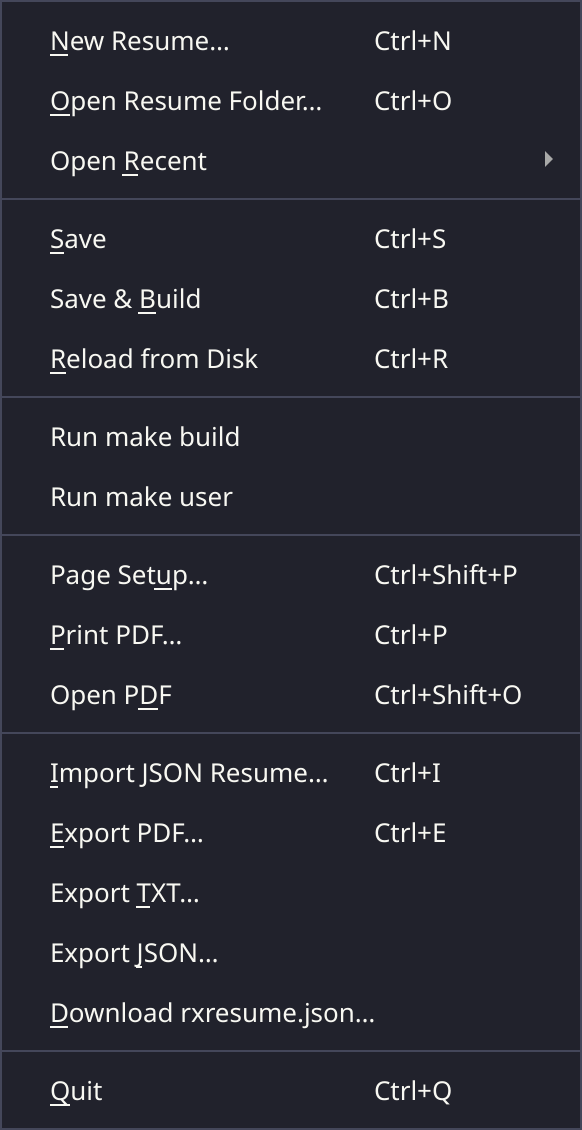
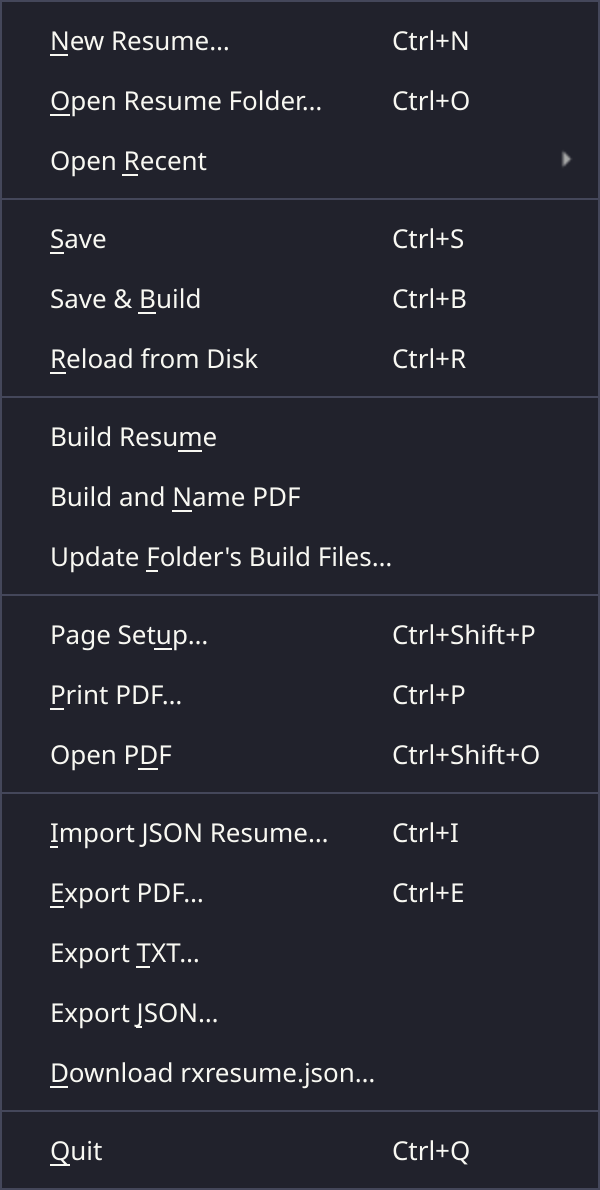
Retake the File menu screenshot, add one of the themes, and rebuild the resume

Changed region(s): [[0.0, 0.0, 0.9897, 0.9912], [0.6186, 0.4956, 0.8969, 0.7743], [0.6495, 0.0, 0.7732, 0.0929]]

diff --git a/docs/screenshots/retake.py b/docs/screenshots/retake.py
@@ -1,0 +1,77 @@
+#!/usr/bin/env python3
+"""Retakes the screenshots that come straight from the editor's widgets,
+without a display:
+
+    python3 docs/screenshots/retake.py
+
+- editor-file-menu.png: the File menu.
+- editor-themes.png: the window in each color theme.
+
+The others show a window as arranged by hand, and are taken by hand. Run
+this from a checkout with the editor's packages installed
+(requirements.txt); it opens this checkout's resume and changes no files.
+"""
+import os
+import sys
+import tempfile
+from pathlib import Path
+
+HERE = Path(__file__).resolve().parent
+ROOT = HERE.parent.parent
+settings = tempfile.TemporaryDirectory()  # so the theme chosen here isn't remembered
+os.environ.update(QT_QPA_PLATFORM="offscreen", QTWEBENGINE_CHROMIUM_FLAGS="--disable-gpu",
+                  XDG_CONFIG_HOME=settings.name, RESUME_WORKSHOP_ROOT=str(ROOT))
+sys.dont_write_bytecode = True
+sys.path.insert(0, str(ROOT / "editor"))
+sys.argv = [sys.argv[0]]
+
+import main  # noqa: E402
+import themes  # noqa: E402
+from PySide6.QtCore import QEventLoop, QRect, Qt, QTimer  # noqa: E402
+from PySide6.QtGui import QColor, QPainter, QPixmap  # noqa: E402
+
+COLUMNS, WIDTH, HEIGHT = 3, 750, 500  # the themes picture: each window at half size
+
+
+def pause(ms):
+    loop = QEventLoop()
+    QTimer.singleShot(ms, loop.quit)
+    loop.exec()
+
+
+def shots():
+    main.application()
+    window = main.Workshop(main.startup_resume())
+    window.resize(1500, 1000)
+    window.show()
+    pause(4000)  # the PDF viewer loads, and the live preview builds
+
+    menu = next(action.menu() for action in window.menuBar().actions() if action.text() == "&File")
+    menu.popup(window.mapToGlobal(window.rect().topLeft()))
+    pause(300)
+    # Drawn at twice its size, as on a high-resolution screen.
+    shot = QPixmap(menu.size() * 2)
+    shot.setDevicePixelRatio(2)
+    menu.render(shot)
+    shot.save(str(HERE / "editor-file-menu.png"))
+    menu.hide()
+
+    names = list(themes.THEMES)
+    rows = -(-len(names) // COLUMNS)
+    sheet = QPixmap(COLUMNS * WIDTH, rows * HEIGHT)
+    sheet.fill(QColor("#000000"))
+    painter = QPainter(sheet)
+    painter.setRenderHint(QPainter.RenderHint.SmoothPixmapTransform)
+    for index, name in enumerate(names):
+        window.set_theme(name)
+        pause(2500)
+        shot = window.grab().scaled(WIDTH, HEIGHT, Qt.AspectRatioMode.KeepAspectRatio, Qt.TransformationMode.SmoothTransformation)
+        painter.drawPixmap(QRect(index % COLUMNS * WIDTH, index // COLUMNS * HEIGHT, WIDTH, HEIGHT), shot)
+    painter.end()
+    sheet.save(str(HERE / "editor-themes.png"))
+    print("Retook editor-file-menu.png and editor-themes.png.", flush=True)
+
+
+if __name__ == "__main__":
+    shots()
+    os._exit(0)  # past Qt WebEngine's shutdown, which needs a display to go cleanly
